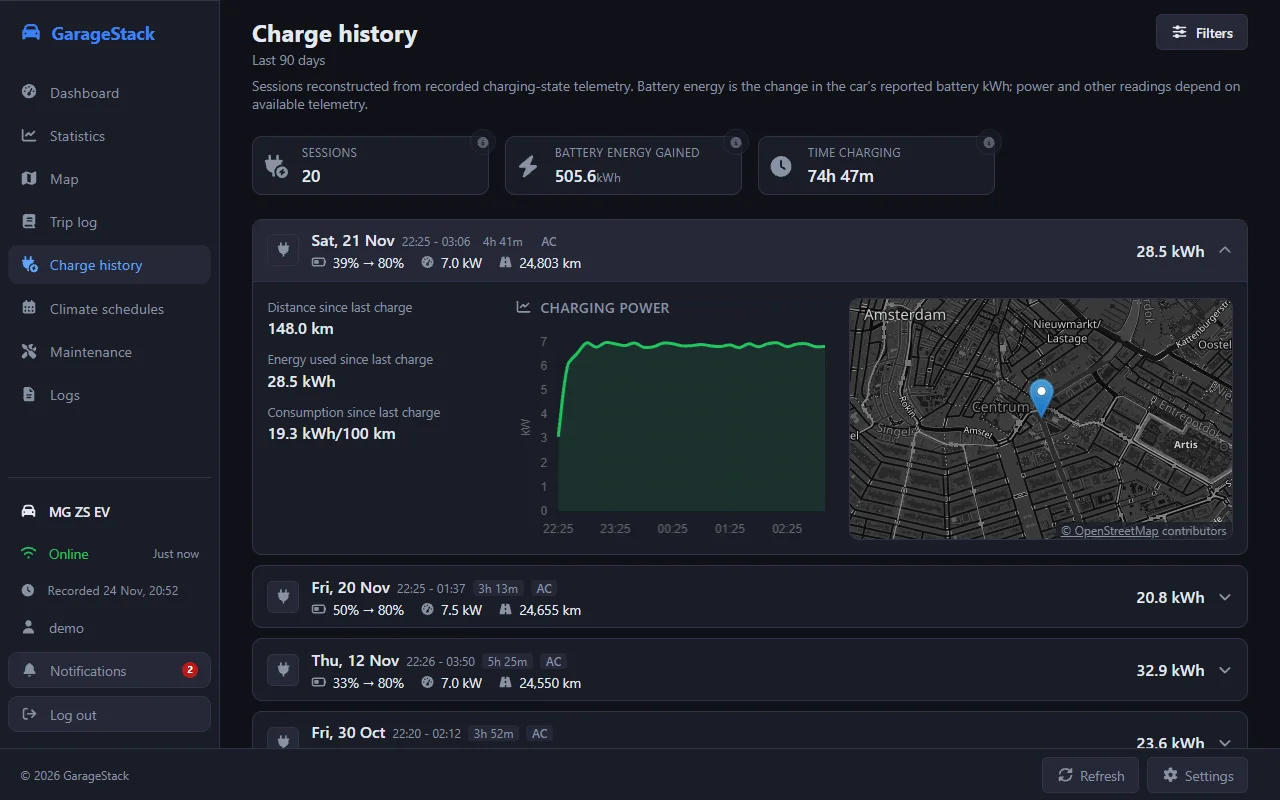
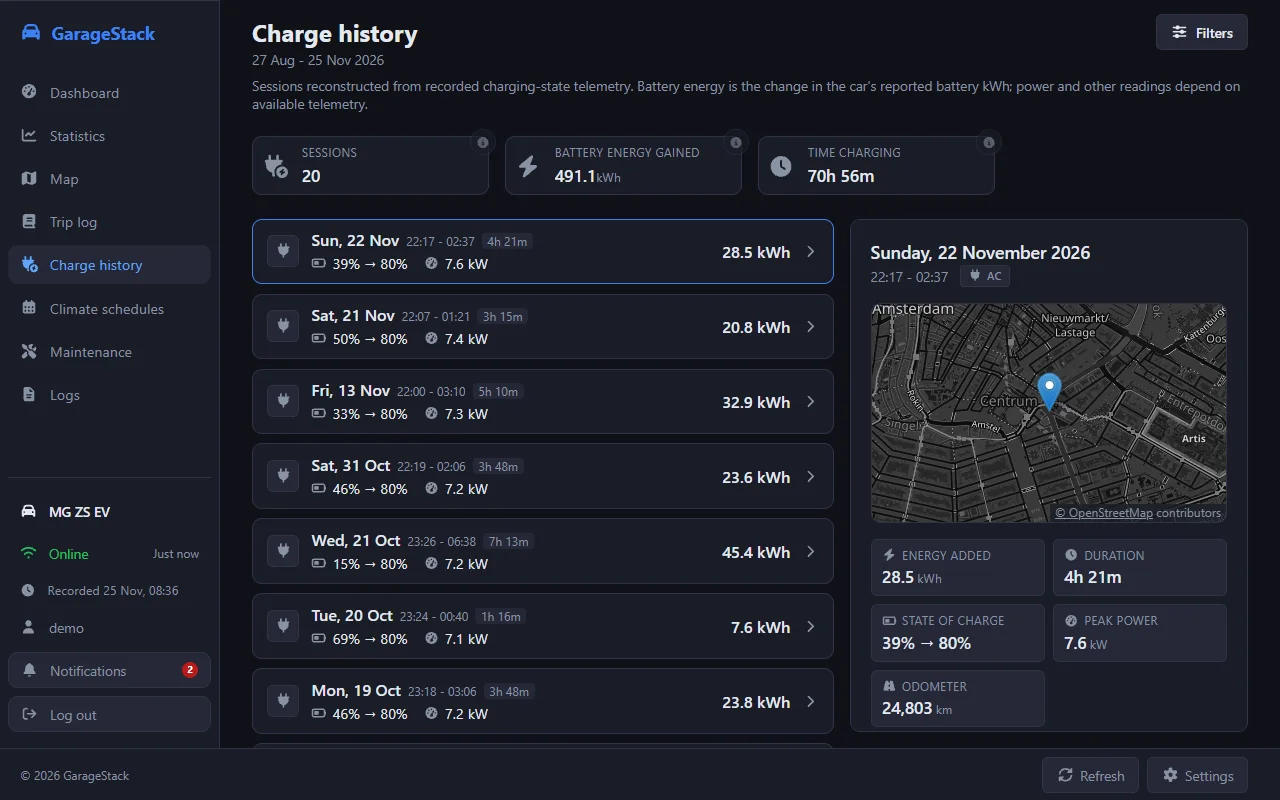
docs(screenshots): retake the charge history with its detail panel

diff --git a/documentation/screenshots/README.md b/documentation/screenshots/README.md
@@ -54,7 +54,7 @@ The main pages of GarageStack, on a desktop and on a phone. They were taken in [
 
 ### Charge history
 
-![The charge history: totals for the sessions, the battery energy gained and the time spent charging over the last 90 days, above a list of AC and DC sessions with their charge levels, peak power and energy, the newest one opened on its charging power curve, the distance and energy used since the charge before, and where it charged](desktop-charge-history.webp)
+![The charge history: totals for the sessions, the battery energy gained and the time spent charging over the last 90 days, above a compact list of sessions with their times, duration, charge levels, peak power and energy, and beside it the selected session's details with where it charged on a map and its figures](desktop-charge-history.webp)
 
 ### Maintenance
 
